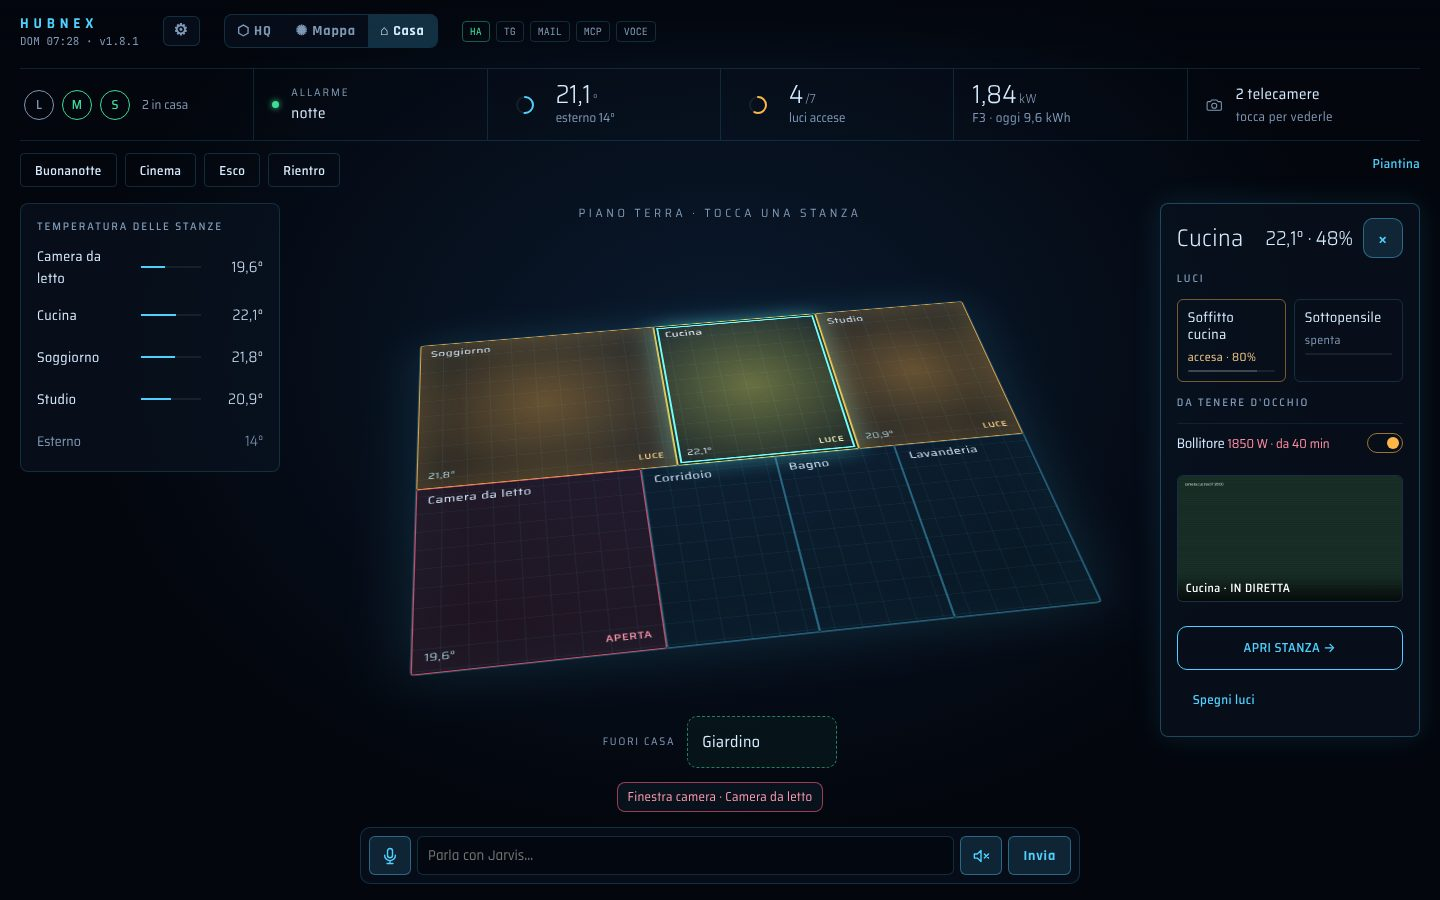
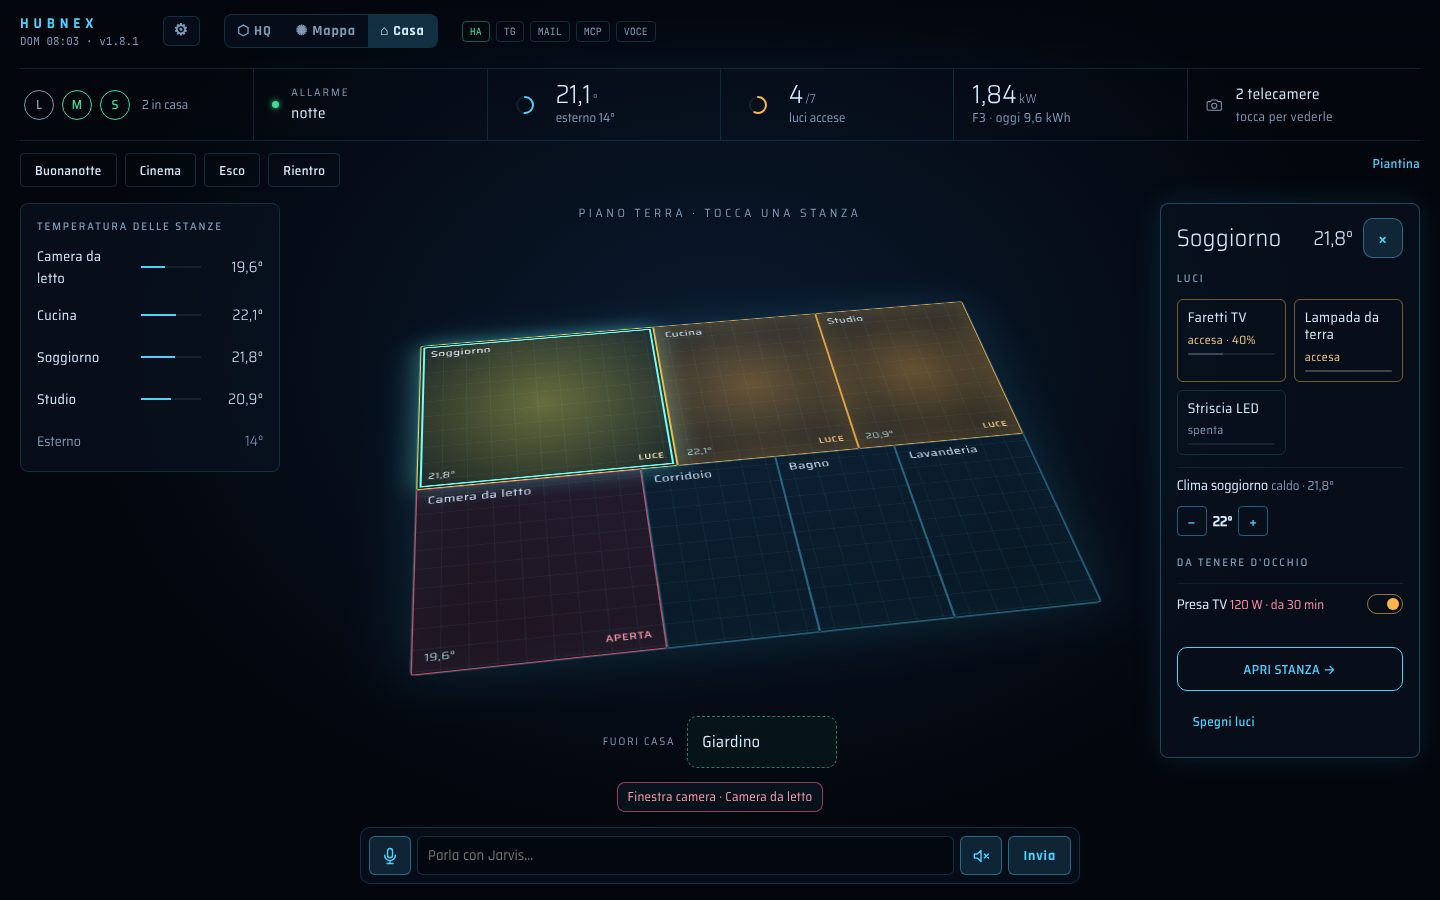
Presentazione: aggiunta la planimetria
Nuova sezione nel capitolo La casa con l'editor della piantina
(planimetria caricata, stanze proposte dall'AI) e schermata Casa
rifatta senza il messaggio di salvataggio.

Claude-Session: https://claude.ai/code/session_01AtJuxBtqv9XdzkVnSgiwR6

diff --git a/docs/index.html b/docs/index.html
@@ -87,7 +87,7 @@ footer { padding: 40px 0 70px; border-top: 1px solid var(--line); color: var(--m
     <p class="lead">Il quartier generale della tua casa e del tuo lavoro, con un assistente che fa solo quello che gli chiedi.</p>
     <p class="sub">Un assistente in stile Jarvis coordina un piccolo team di agenti AI, tiene d'occhio la posta e le scadenze, si collega ai programmi del lavoro. Accanto, una plancia di Home Assistant pensata da zero: la casa sulla sua piantina olografica, una card per ogni dispositivo, l'energia letta come una bolletta.</p>
     <div class="tags"><span>Home Assistant</span><span>Claude</span><span>Telegram</span><span>Assist e voce</span><span>MCP</span><span>Open source · MIT</span></div>
-    <div class="shot hero-shot"><img src="img/casa.jpg" alt="La vista Casa: cruscotto in alto, piantina olografica al centro, scheda della cucina a destra" width="1440" height="900"></div>
+    <div class="shot hero-shot"><img src="img/casa.jpg" alt="La vista Casa: cruscotto in alto, piantina olografica al centro, scheda del soggiorno a destra" width="1440" height="900"></div>
   </section>
 
   <section class="chapter">
@@ -96,7 +96,16 @@ footer { padding: 40px 0 70px; border-top: 1px solid var(--line); color: var(--m
       <h2>La plancia che Home Assistant meritava</h2>
       <p>Le stanze sono le aree di Home Assistant, disegnate sulla tua planimetria: la carichi in foto o PDF e l'AI propone le stanze, tu le rifinisci con il dito. Tocchi una stanza e si apre la sua scheda; i comandi vanno dritti a Home Assistant, senza AI e senza costi.</p>
     </header>
-    <div class="split">
+    <div class="split rev">
+      <ul class="points">
+        <li class="on"><b>Carichi la planimetria</b><span>Una foto, una scansione o un PDF della tua casa, anche più piani. Diventa lo sfondo su cui disegnare.</span></li>
+        <li><b>L'AI propone le stanze</b><span>Con "Proponi le stanze" l'AI riconosce i locali e li abbina alle aree di Home Assistant. Tu sposti gli angoli con il dito e correggi.</span></li>
+        <li><b>Dentro e fuori casa</b><span>Balconi e giardino diventano contorni o finiscono sotto la piantina, sotto "Fuori casa".</span></li>
+        <li><b>Diventa un ologramma</b><span>Salvi e la planimetria si trasforma nella piantina 3D della vista Casa: luci accese, temperature e finestre aperte a colpo d'occhio.</span></li>
+      </ul>
+      <div class="shot"><img src="img/piantina.jpg" alt="L'editor della piantina: planimetria caricata, stanze disegnate sopra e abbinate alle aree di Home Assistant" width="1440" height="900"></div>
+    </div>
+    <div class="split" style="margin-top:20px">
       <div class="shot"><img src="img/stanza.jpg" alt="Pagina del Soggiorno con le card di luci, clima, stufa, tapparella, media e prese" width="1440" height="900"></div>
       <ul class="points">
         <li class="on"><b>Una card per ogni cosa</b><span>Luci con la luminosità, clima con il quadrante, tapparelle disegnate, media con copertina e volume, prese con il consumo, sensori con il grafico delle 24 ore.</span></li>
